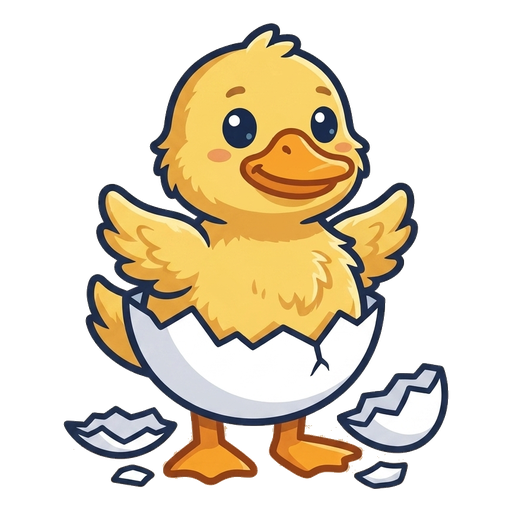
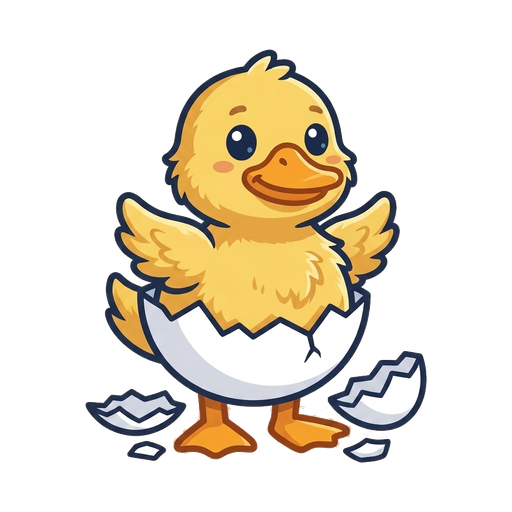
Evrim figürlerine %12 nefes payı + şeride üst boşluk (üstleri kesilmiş görünüyordu)

Changed region(s): [[0.125, 0.0312, 0.875, 0.9688], [0.5, 0.4688, 0.5312, 0.5]]

diff --git a/src/components/Evrim.tsx b/src/components/Evrim.tsx
@@ -32,7 +32,7 @@ export function EvrimSeridi() {
         </span>
       </div>
 
-      <div className="scrollbar-none mt-5 flex items-end justify-between gap-1 overflow-x-auto pb-1">
+      <div className="scrollbar-none mt-4 flex items-end justify-between gap-1 overflow-x-auto pt-3 pb-1">
         {EVRIM_ASAMALARI.map((a) => {
           const durum = a.no < asama.no ? "gecti" : a.no === asama.no ? "simdi" : "kilitli";
           return (
